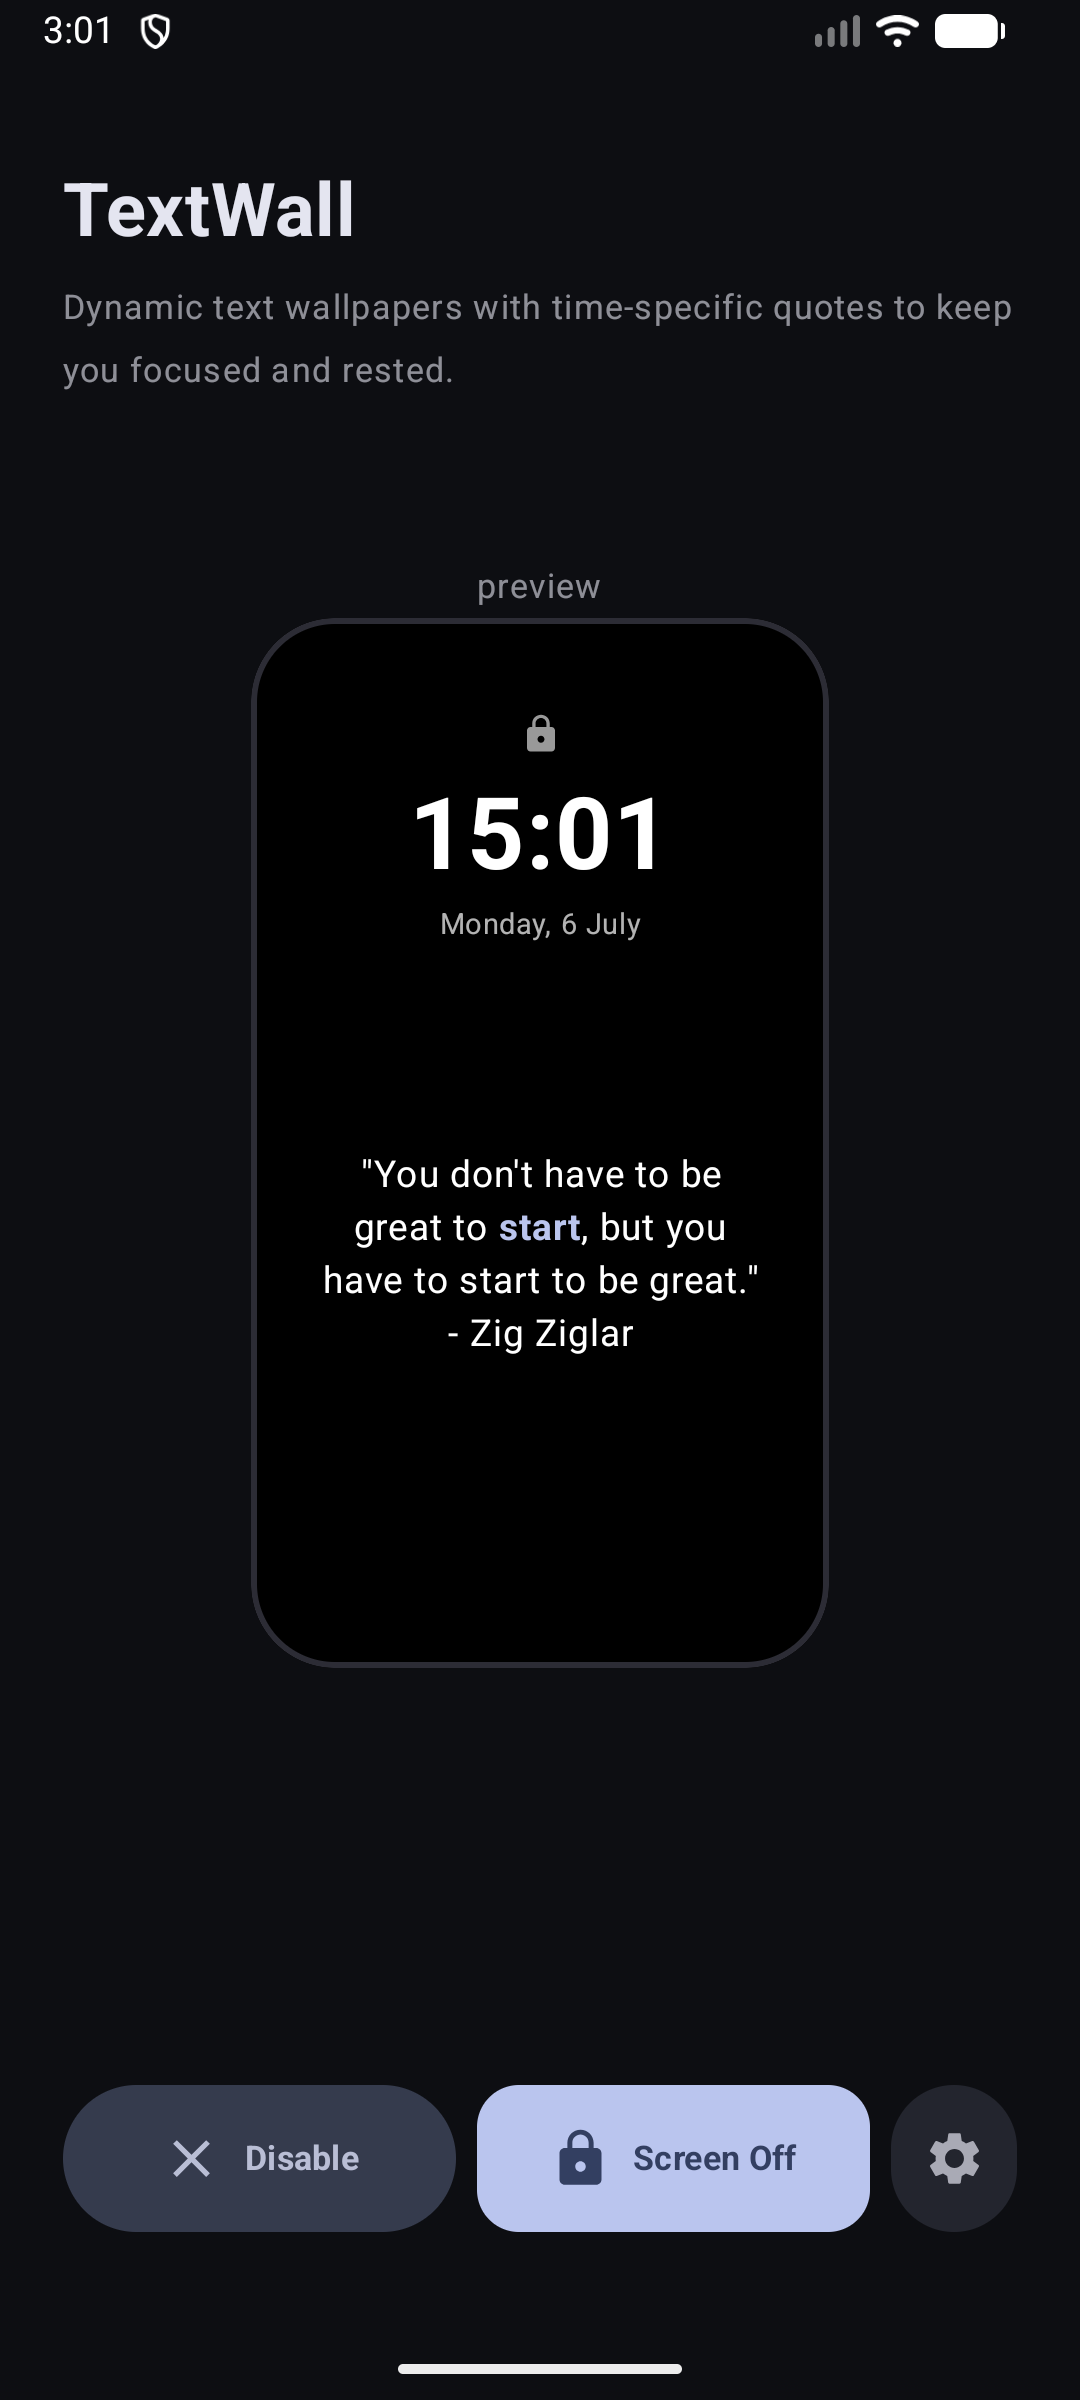
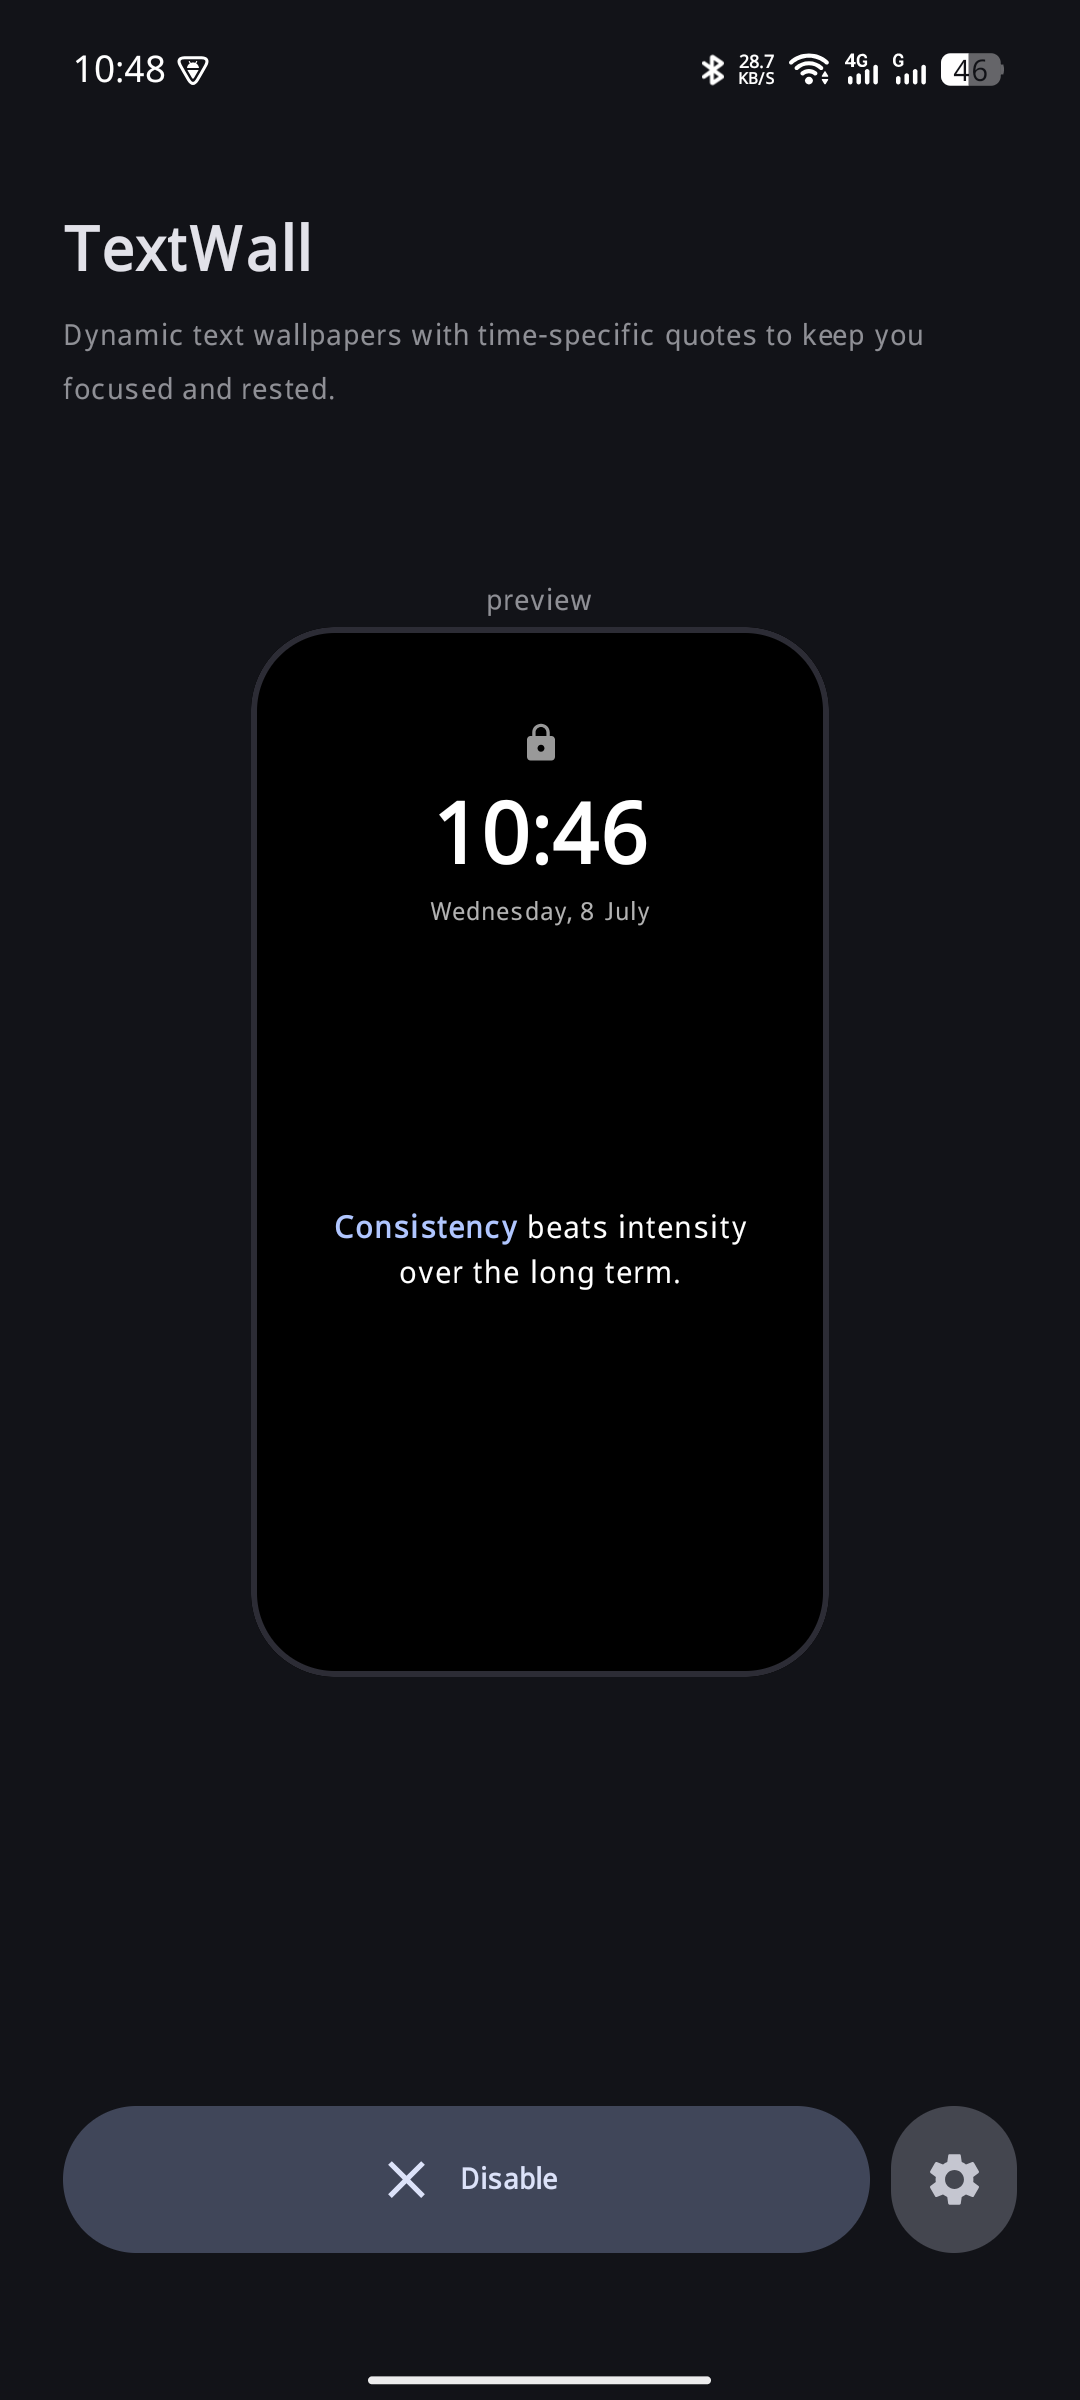
feat: release v1.1.0, remove accessibility service, and update documentation with wide aspect ratio screenshots

diff --git a/README.md b/README.md
@@ -8,14 +8,14 @@
 
 1. Dynamic time-based wallpaper quotes.
 2. Material 3 Expressive UI.
-3. Screen-off accessibility feature.
-4. System diagnostic checks for permissions.
+3. System diagnostic checks for permissions.
 
 ## Screenshots
 
 | Main Screen                     | Settings Screen                         | Lockscreen                        |
 | ------------------------------- | --------------------------------------- | --------------------------------- |
 | ![Main Screen](images/main.png) | ![Settings Screen](images/settings.png) | ![Lockscreen](images/example.png) |
+| ![Main Screen](images/main_wide.png) | ![Settings Screen](images/settings_wide.png) | ![Lockscreen](images/example_wide.png) |
 
 ## Tech Stack
 
@@ -33,7 +33,6 @@
 
 - **MainActivity.kt**: Main activity hosting the Compose UI and managing app state
 - **WallpaperTriggerService.kt**: Foreground service that listens for screen unlock events
-- **ScreenOffAccessibilityService.kt**: Accessibility service for screen lock functionality
 - **WallpaperWorker.kt**: WorkManager worker that handles wallpaper updates
 - **TextProvider.kt**: Provides time-based motivational text content
 - **SettingsRepository.kt**: Manages app settings using DataStore
@@ -43,8 +42,7 @@
 ### Background Services
 
 1. **WallpaperTriggerService**: Monitors device unlock events and triggers wallpaper updates
-2. **ScreenOffAccessibilityService**: Provides screen lock functionality
-3. **WallpaperTriggerReceiver**: Handles boot completed events to restart services
+2. **WallpaperTriggerReceiver**: Handles boot completed events to restart services
 
 ## Permissions Required
 
@@ -107,15 +105,9 @@ cd TextWall
    - Select "TextWall" and choose "Don't optimize"
    - Ensures background services run reliably
 
-3. **Enable Accessibility Service**:
-   - Go to Accessibility settings
-   - Find "TextWall" and enable it
-   - Required for screen lock functionality
-
 ### Main Features
 
 - **Enable/Disable**: Toggle the wallpaper changer on/off
-- **Turn Screen Off**: Lock your device directly from the app
 - **Settings**: Customize text content and styling preferences
 - **Preview**: View how your lockscreen will appear with current settings
 
@@ -131,7 +123,6 @@ Use single quotes to highlight specific words in gold:
 ```
 app/src/main/java/com/rizalalfadlil/textwall/
 ├── MainActivity.kt                      # Main activity and UI
-├── ScreenOffAccessibilityService.kt    # Accessibility service
 ├── SettingsRepository.kt               # Settings management
 ├── SettingsScreen.kt                   # Settings UI
 ├── SystemDiagnosticsCard.kt            # Permission status UI
@@ -168,7 +159,6 @@ Key dependencies include:
 
 ### Less Important (when there's no important todo)
 
-- Change bad contrast highlight color
 - Add reset button for time boundaries
 
 ### Future Plan